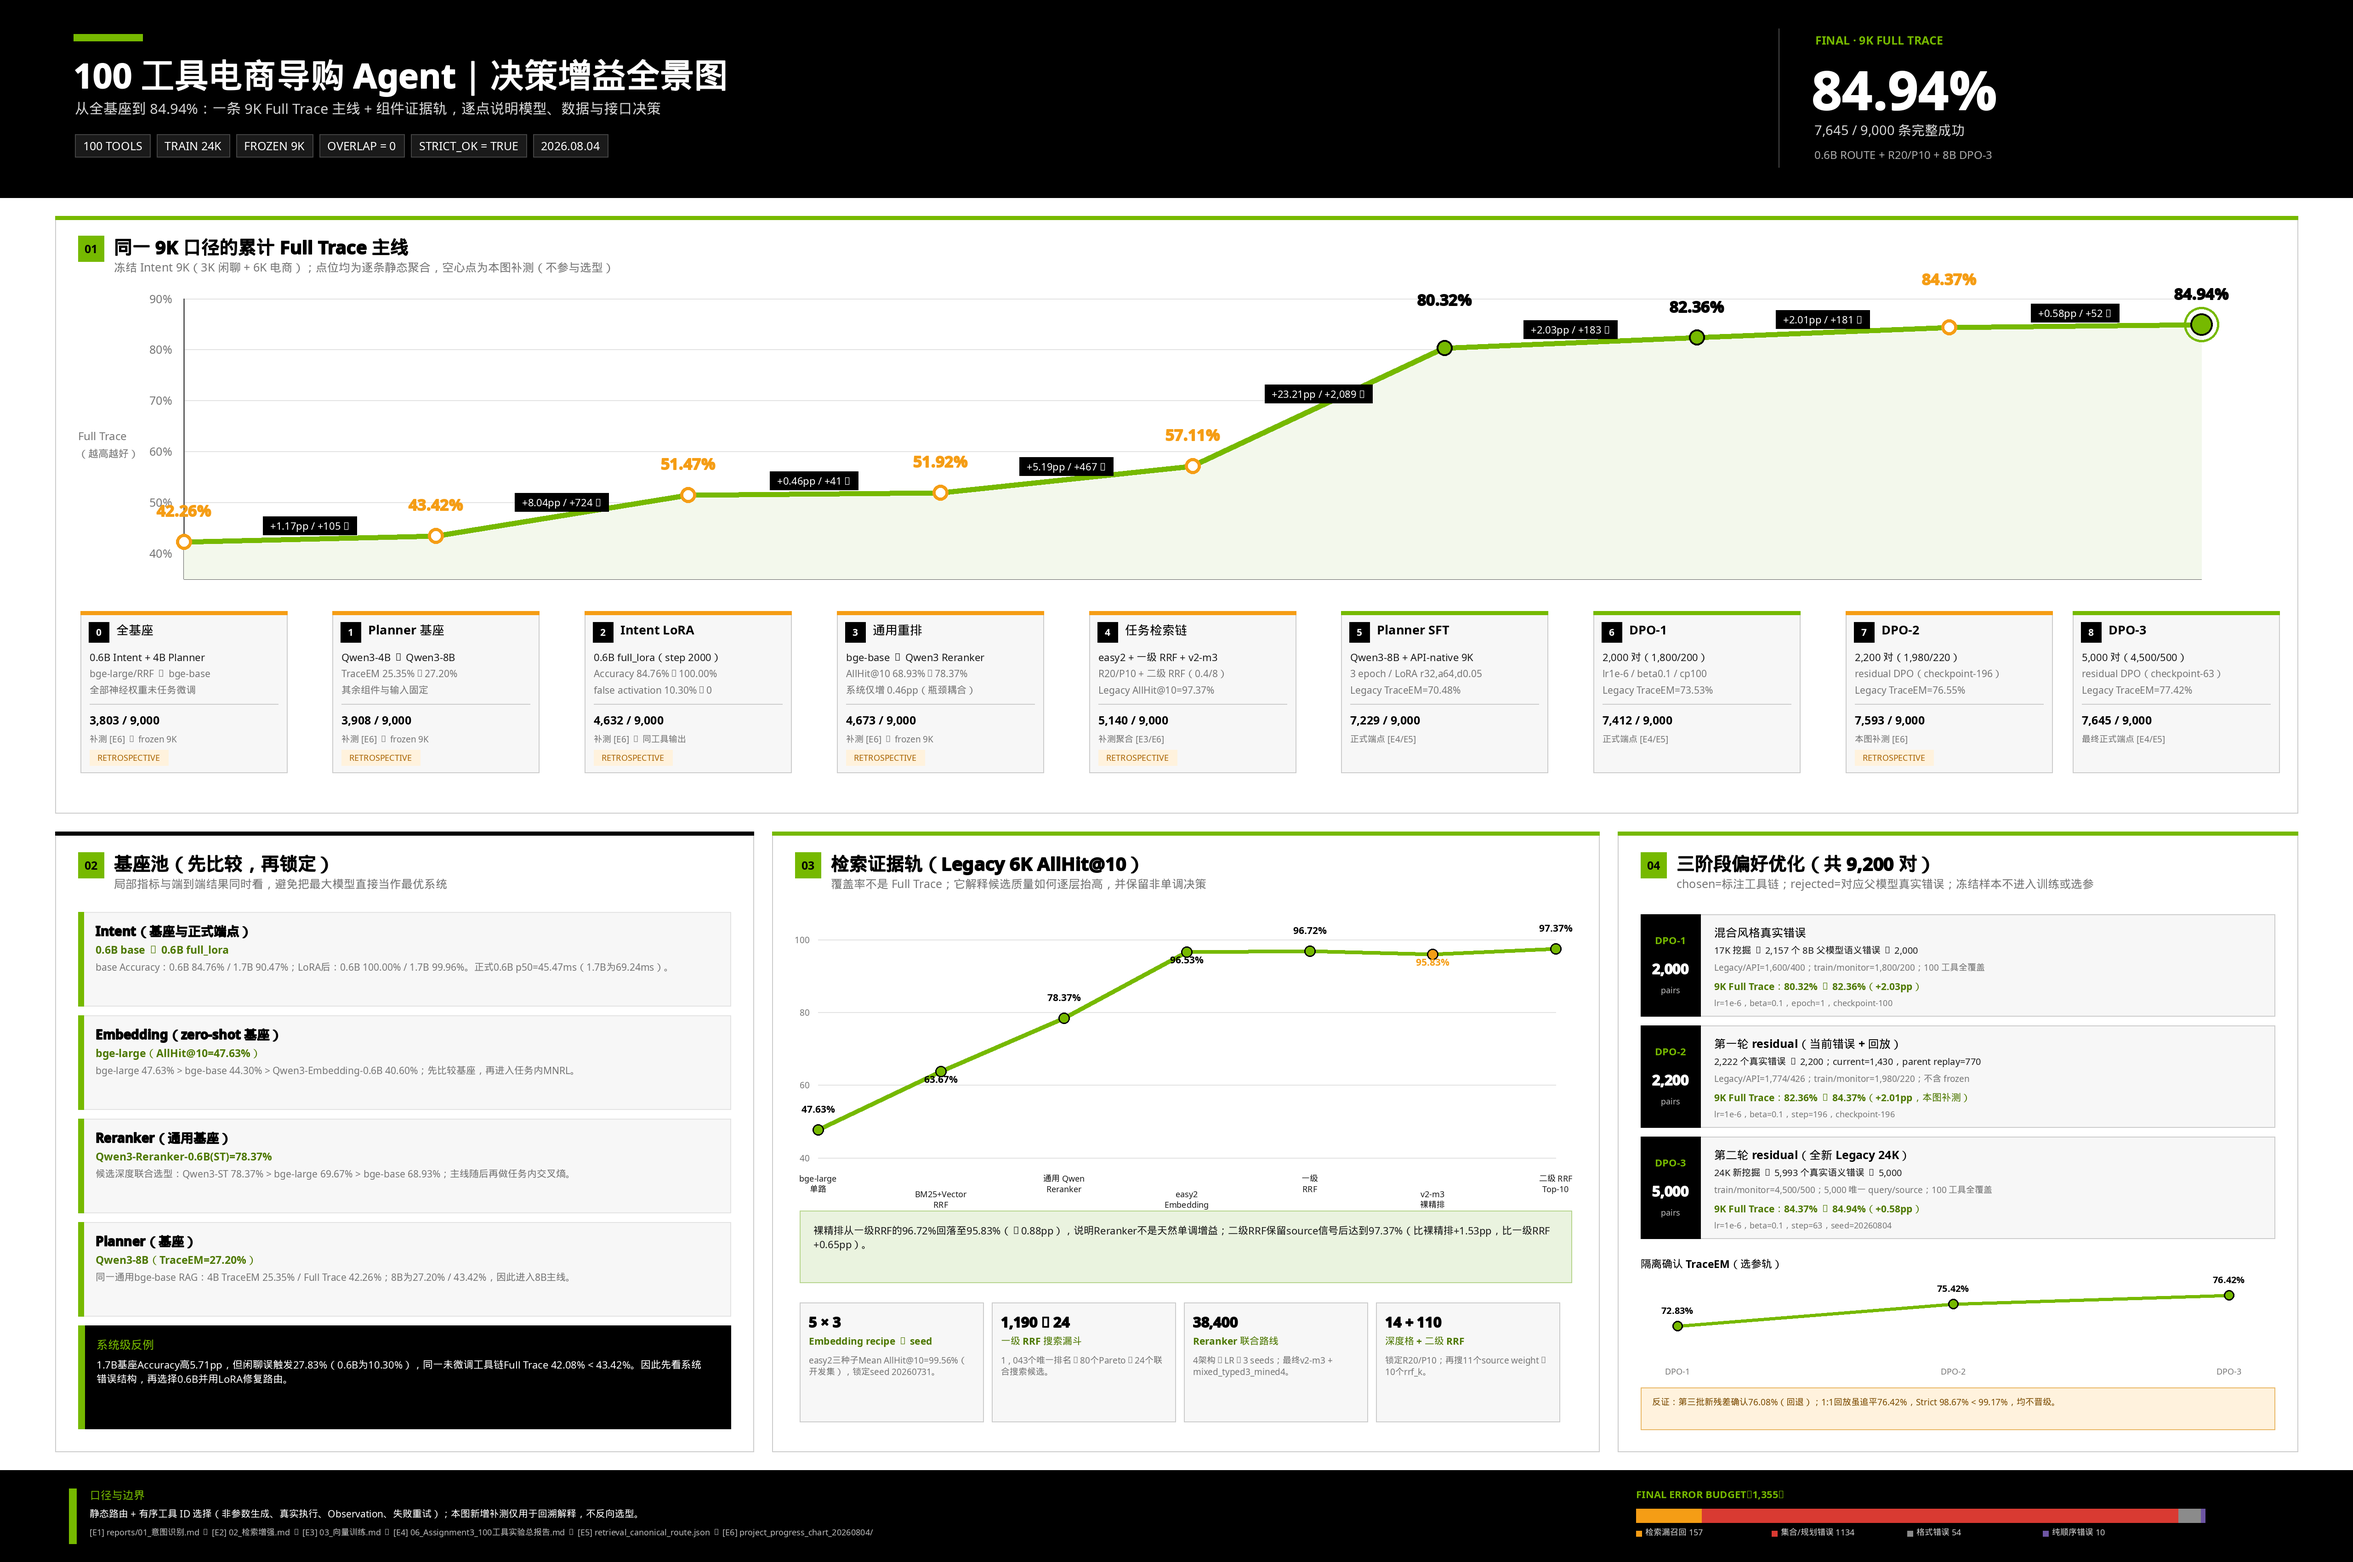
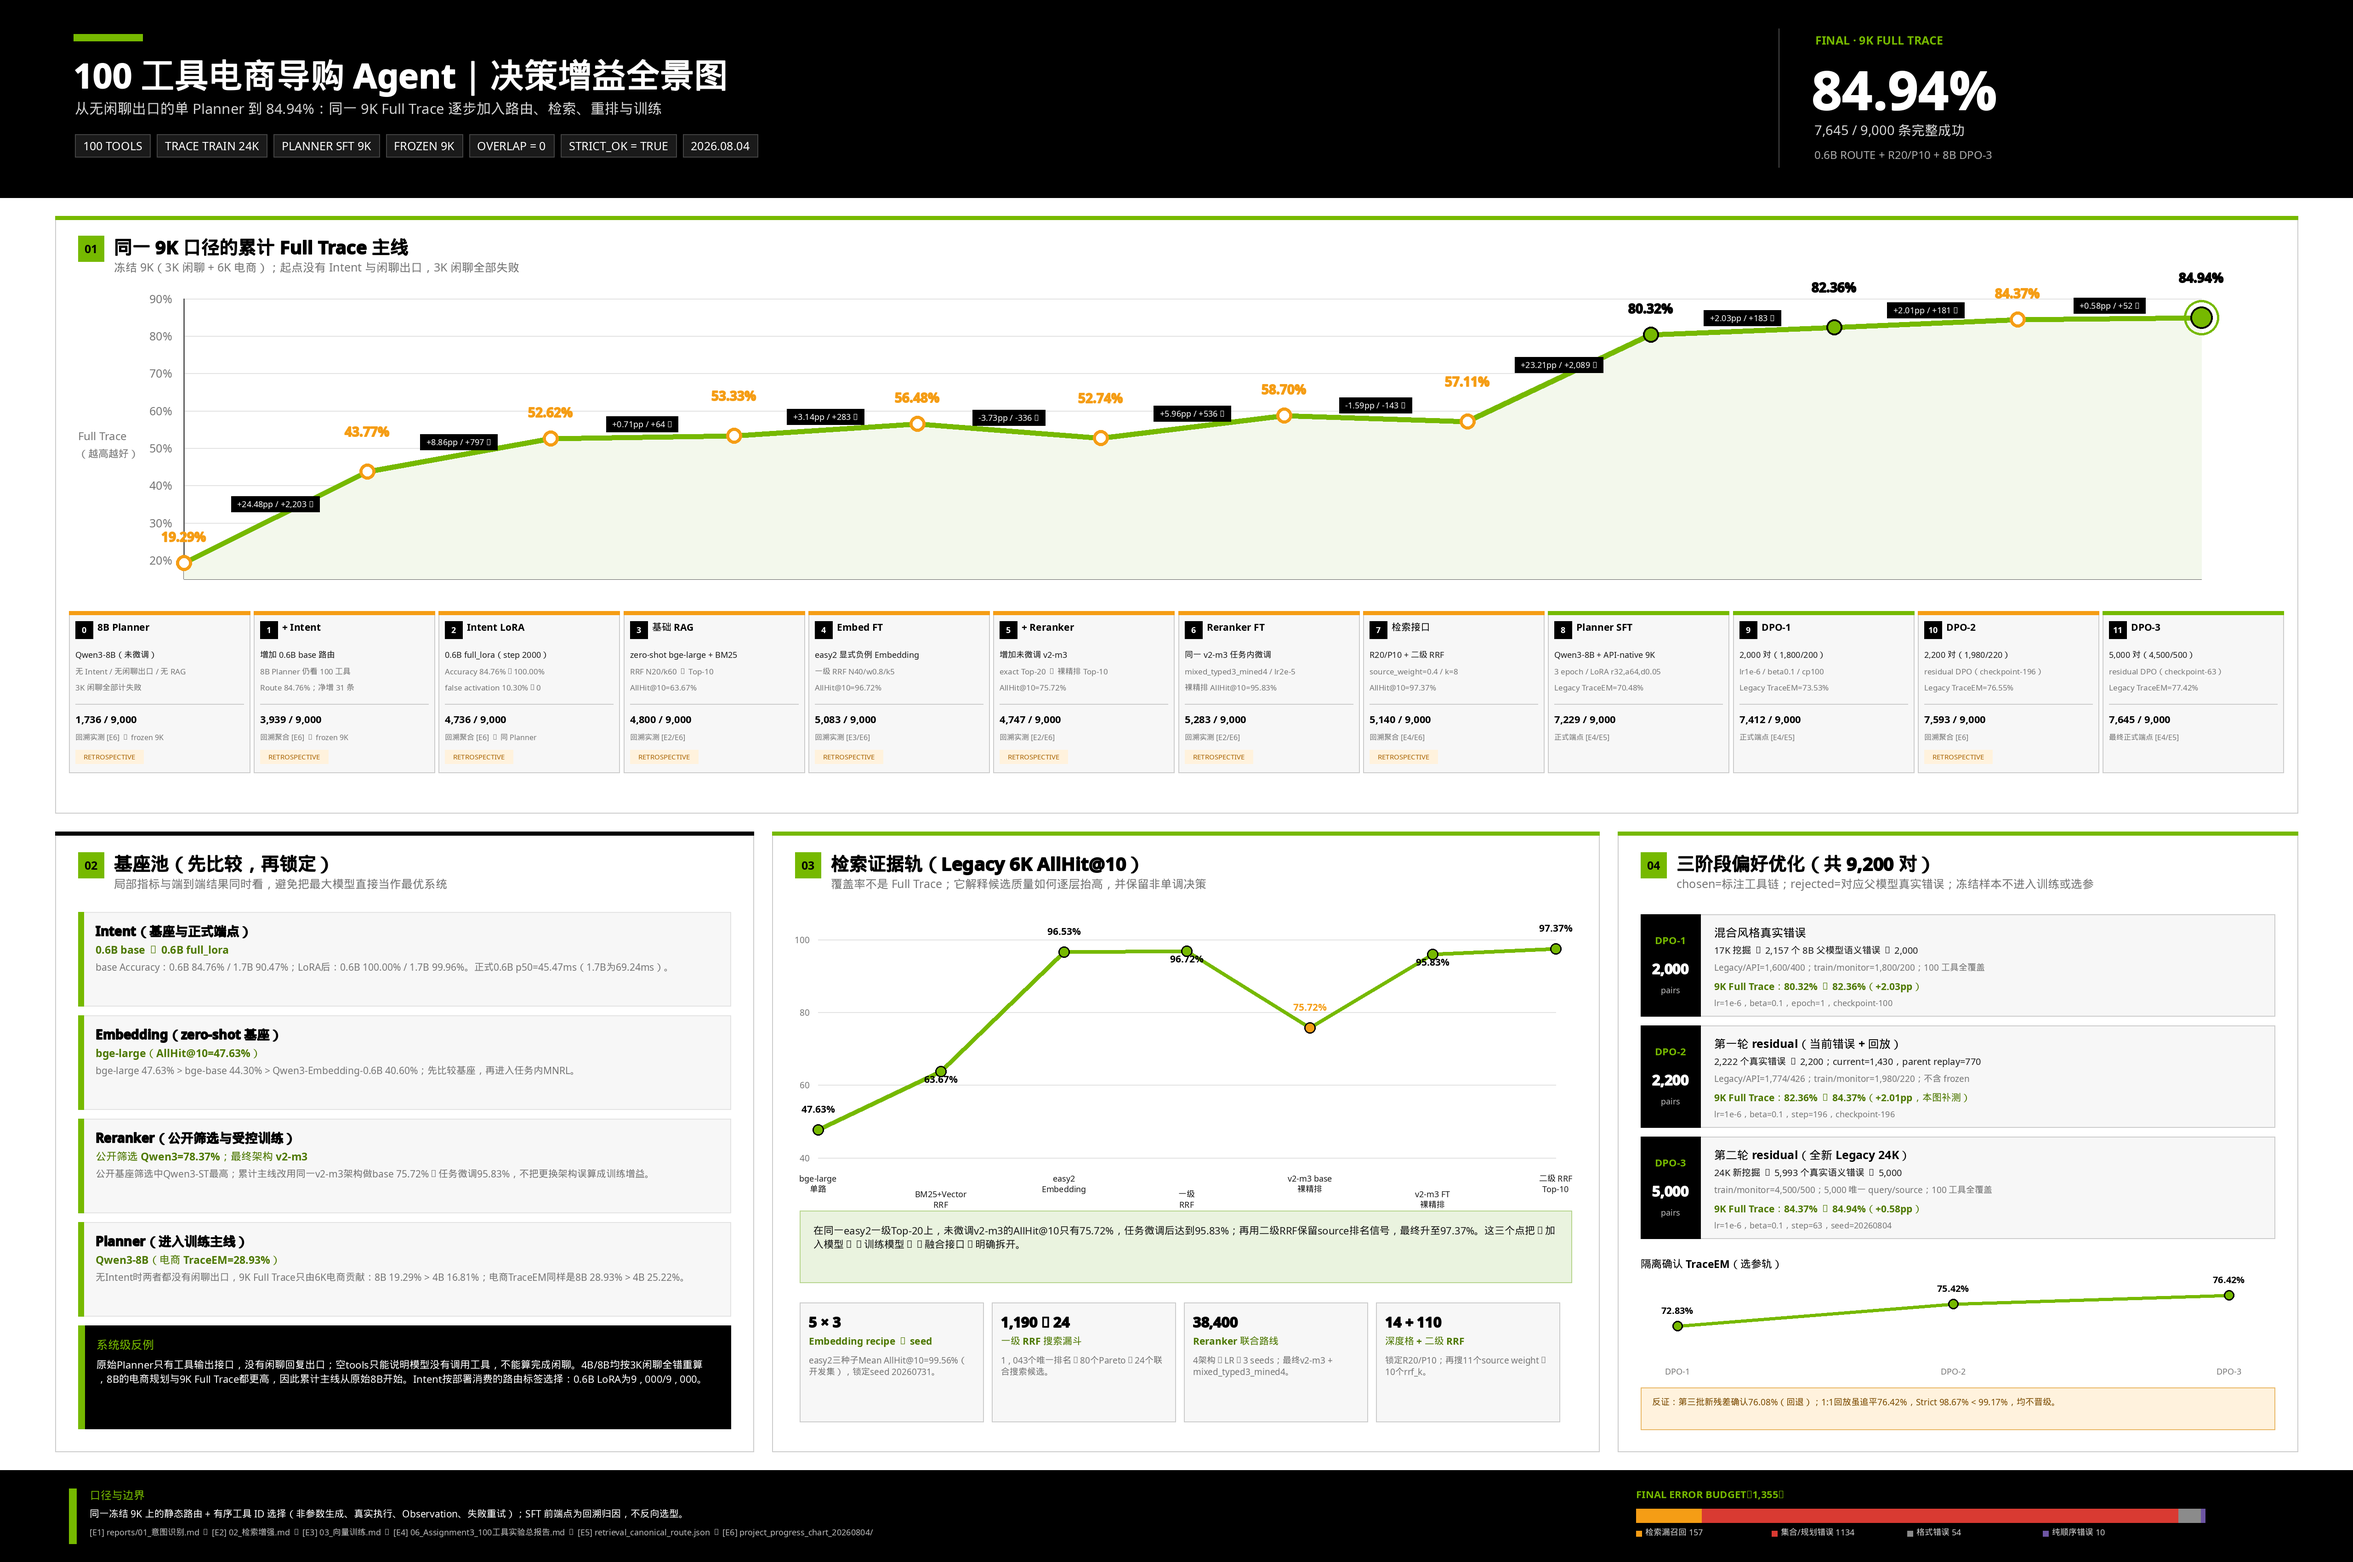
docs: refresh ecommerce agent overview

diff --git a/ecommerce-agent/index.html b/ecommerce-agent/index.html
@@ -1647,17 +1647,17 @@
           <header class="system-progress-figure-head">
             <div>
               <span>00 · PROJECT OVERVIEW</span>
-              <h3 id="systemProgressTitle">九个决策点的系统级累计增益</h3>
+              <h3 id="systemProgressTitle">十二个决策点的系统级累计增益</h3>
             </div>
-            <p>从全基座 42.26% 到最终 84.94%；先用同一 9K Full Trace 口径看清每次模型、数据与接口选择带来的增益，再展开最终三个模块。</p>
+            <p>从没有 Intent 与闲聊出口的原始 8B Planner（19.29%）到最终 84.94%；同一 9K Full Trace 上依次加入路由、检索、重排与训练，横向模型选型不再混入累计折线。</p>
           </header>
           <div class="system-progress-image" tabindex="0" aria-label="可横向滚动查看完整折线图">
-            <img src="assets/agent-full-trace-progress.png" width="2200" height="1320" loading="lazy" decoding="async" alt="9K Full Trace 累计增益折线图：从全基座 42.26%，依次经过 8B Planner、意图 LoRA、通用重排、任务检索链、Planner SFT 和三轮 DPO，最终达到 84.94%，即 7,645 / 9,000 条完整成功。">
+            <img src="assets/agent-full-trace-progress.png" width="2200" height="1320" loading="lazy" decoding="async" alt="9K Full Trace 累计增益折线图：没有 Intent 与闲聊出口的原始 8B Planner 从 19.29% 起步，依次加入基础 Intent、Intent LoRA、基础 RAG、Embedding 微调、Reranker 加入与微调、最终检索融合、Planner SFT 和三轮 DPO，最终达到 84.94%，即 7,645 / 9,000 条完整成功。">
           </div>
           <figcaption>
             <strong>统一读图口径</strong>
             <span>空心橙点为回溯补测，只用于解释决策增益，不参与模型选型；实心绿点为正式系统端点。最终链路固定为 0.6B 路由 + 精排 20 / 规划 10 + 8B 三阶段偏好优化。</span>
-            <small class="system-progress-scroll-hint">小屏可横向滑动图表，查看全部 9 个点位。</small>
+            <small class="system-progress-scroll-hint">小屏可横向滑动图表，查看全部 12 个点位。</small>
           </figcaption>
         </figure>
 

diff --git a/ecommerce-agent/README.md b/ecommerce-agent/README.md
@@ -46,6 +46,12 @@
 
 同一 9K 口径下，8B Planner 仅做 SFT 时 Full Trace 为 `80.3222%`；初始 DPO 提升到 `82.3556%`，第一轮 residual DPO 达到 `84.3667%`，第二轮达到最终的 `84.9444%`。
 
+## 如何理解全链路增益图
+
+主折线只保留同一冻结 9K 上可逐步叠加的系统端点。起点是一个未微调的 Qwen3-8B Planner：没有 Intent、没有 RAG，也没有闲聊回复出口，直接面对 100 个工具。因此 3,000 条闲聊全部计失败，即使模型输出空工具列表也不算完成回复；随后依次加入基础 Intent、Intent LoRA、未微调 RAG、easy2 Embedding、同架构 Reranker 的加入与微调、最终检索融合、Planner SFT 和三轮 DPO。
+
+4B/8B、公开 Embedding 与公开 Reranker 的横向比较属于分支选型，不再作为累计增益点。按上述系统契约重算后，原始 8B 的 9K Full Trace 为 19.29%，高于 4B 的 16.81%；两者的 3K 闲聊都没有成功出口，差异只来自 6K 电商工具链规划。把“替代方案比较”和“同一主线叠加”分开后，每个折点的含义才一致。
+
 ## 关键决策
 
 ### 1. 入口路由选择 0.6B，而不是更大的 1.7B
